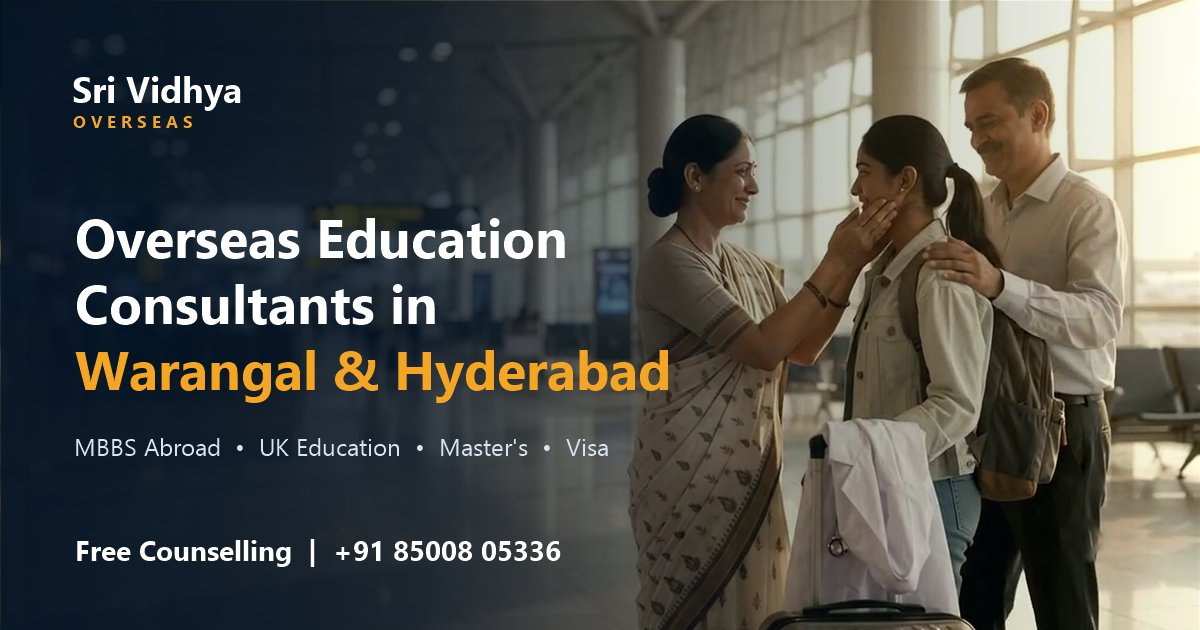
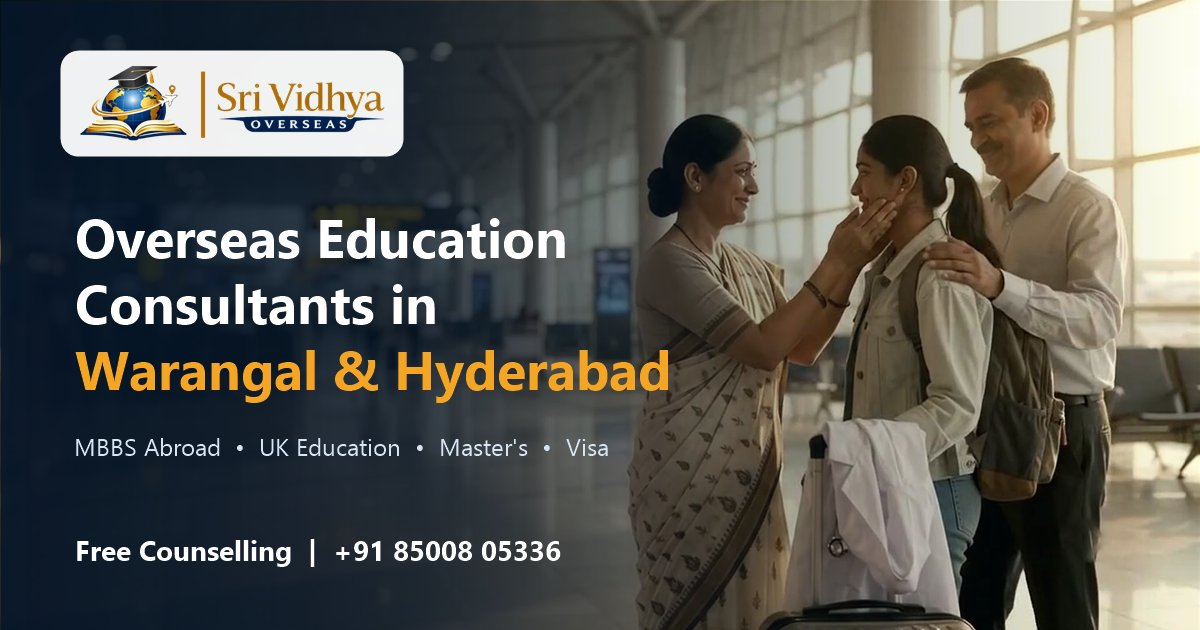
website updated

Changed region(s): [[0.0308, 0.0603, 0.3392, 0.2714]]

diff --git a/src/styles/theme.css b/src/styles/theme.css
@@ -313,6 +313,23 @@ th, td { border-bottom-color: rgba(11, 42, 74, 0.08); }
 .fab-call { background: var(--grad-primary); }
 .fab-whatsapp { background: linear-gradient(135deg, #3ee07c, #1fae55); }
 
+/* ---------- Logo ---------- */
+.logo { display: inline-flex; align-items: center; flex: none; }
+.logo picture { display: block; }
+.logo-img { display: block; height: 54px; width: auto; transition: filter 0.3s; }
+/* On dark backgrounds (home hero header, footer) lift the logo off the background */
+.logo-light .logo-img { filter: drop-shadow(0 2px 10px rgba(0, 0, 0, 0.45)) brightness(1.08); }
+.site-footer .logo {
+  padding: 10px 16px;
+  border-radius: 16px;
+  background: rgba(255, 255, 255, 0.92);
+  box-shadow: 0 10px 30px -14px rgba(0, 0, 0, 0.6);
+}
+.site-footer .logo-light .logo-img { filter: none; height: 50px; }
+.mobile-drawer-head .logo-img { height: 46px; }
+@media (max-width: 1180px) { .logo-img { height: 48px; } }
+@media (max-width: 640px) { .logo-img { height: 42px; } }
+
 /* ---------- Performance / accessibility ---------- */
 @media (max-width: 640px) {
   /* Lighter blur on phones keeps scrolling smooth */

diff --git a/src/components/Logo.jsx b/src/components/Logo.jsx
@@ -1,14 +1,14 @@
 import { Link } from 'react-router-dom';
 import { SITE } from '../config/site.js';
 
-// Text-only wordmark for now. Add the official logo image here when available.
+// Official logo (globe + wordmark). WebP with PNG fallback, transparent background.
 export default function Logo({ light = false }) {
   return (
     <Link to="/" className={`logo${light ? ' logo-light' : ''}`} aria-label={`${SITE.name} – Home`}>
-      <span className="logo-text">
-        <strong>Sri Vidhya</strong>
-        <small>Overseas</small>
-      </span>
+      <picture>
+        <source srcSet="/logo.webp" type="image/webp" />
+        <img className="logo-img" src="/logo.png" alt={SITE.name} width="946" height="240" decoding="async" />
+      </picture>
     </Link>
   );
 }

diff --git a/src/data/seo.js b/src/data/seo.js
@@ -334,7 +334,7 @@ export function organizationNode() {
     name: SITE.name,
     alternateName: ['Sri Vidhya Overseas Education Consultants', 'Sri Vidhya Overseas Warangal', 'Sri Vidhya Overseas Hyderabad'],
     url: url('/'),
-    logo: { '@type': 'ImageObject', url: url('/icon-512.png'), width: 512, height: 512 },
+    logo: { '@type': 'ImageObject', url: url('/logo.png'), width: 946, height: 240 },
     image: OG_IMAGE.url,
     description: STATIC_PAGES['/'].description,
     slogan: 'Honest guidance for your overseas education',
